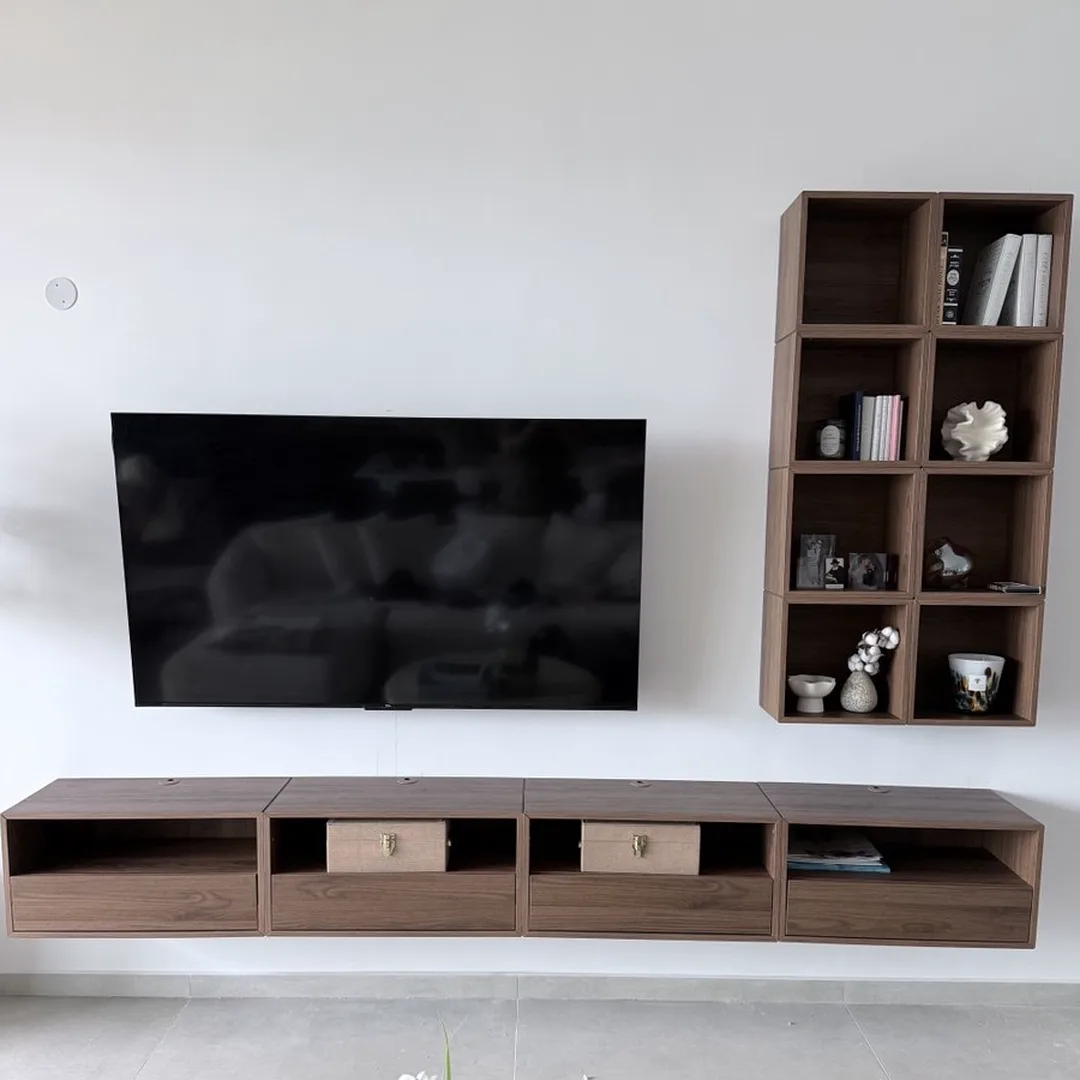
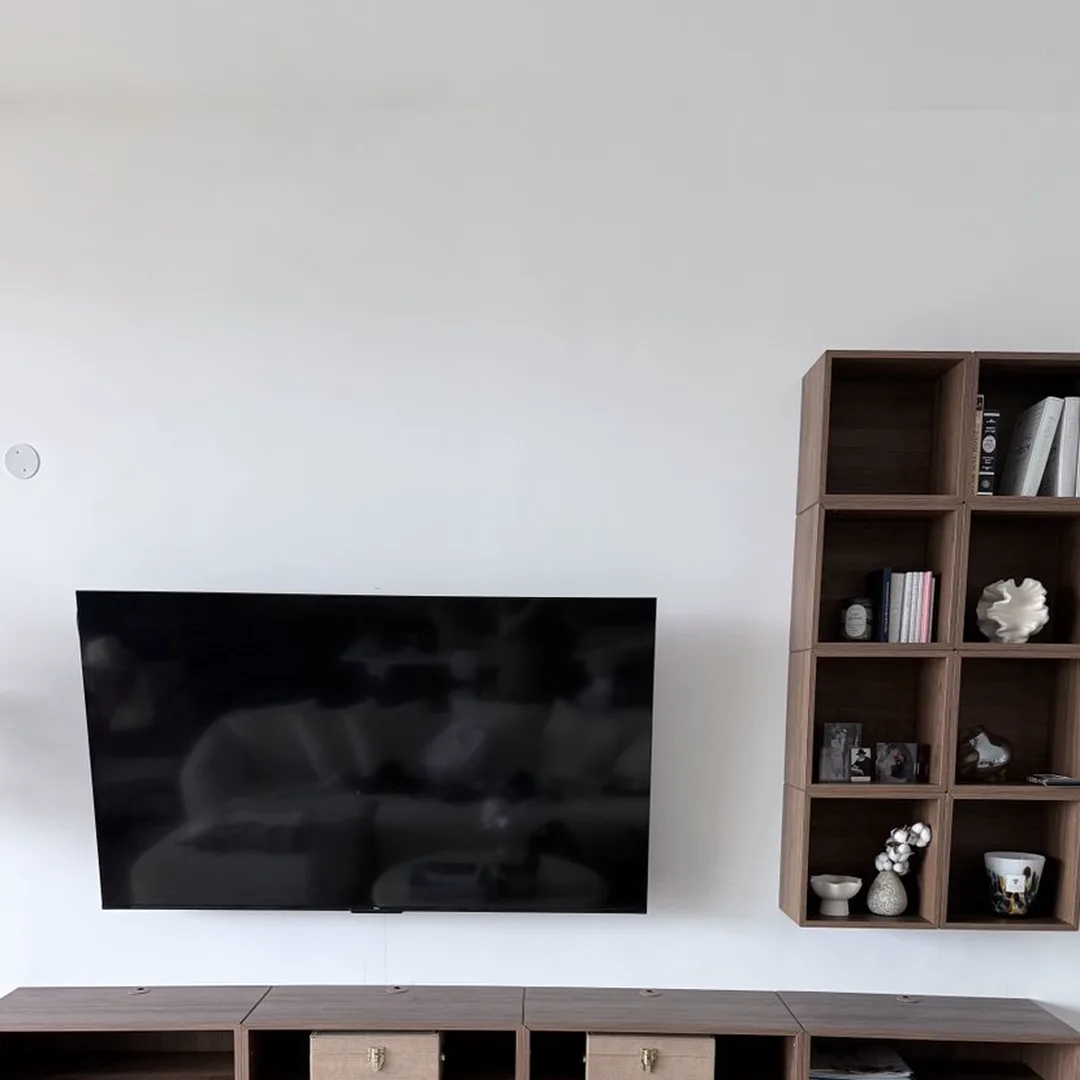
Брендбук: креатив с телевизором пересобран — плита над телевизором

diff --git a/brand/kit/ads/креативы.css b/brand/kit/ads/креативы.css
@@ -642,10 +642,29 @@ body[data-режим='экспорт'] .кр {
  * линиям»). Нашли глаза на PNG, ни одно из тринадцати правил не сработало:
  * они стерегут текст, а не то, что текст собой заслонил.
  */
+/* Поле плиты в квадрате — `space-5`, а не `space-4`, и это не вкус: знак стоит
+   в плите, и охранное поле (0,21 его высоты = 22,9 px) отмеряется от её края.
+   При 16 px знак нарушал раздел 01 брендбука, а правило 7 сборки этого не
+   видело — оно мерило расстояние до кромки холста, где запас огромный. */
 .кр--1x1.кр--снимок .кр-плита {
-  gap: var(--fx-space-3);
+  gap: var(--fx-space-2);
   padding: var(--fx-space-5);
 }
+
+/* Уплотнение плиты подвинуло знак к строке цены над ним: правило 7 поймало
+   21,5 px при норме 22,9 — одна голова буквы `i`. Зазор оказался вертикальным,
+   а не горизонтальным: первая догадка была про промежуток в футере, и после неё
+   упали обе локали вместо одной ивритской — то есть догадка была неверной, а
+   сторож точнее. Охранное поле возвращается отступом над футером. */
+.кр--1x1.кр--снимок .кр-плита .кр-низ {
+  margin-block-start: var(--fx-space-5);
+}
+
+/* Уменьшать знак ради тех же тридцати пикселей пробовали — откачено: он
+   утонул рядом с контактной строкой, и футер разбалансировался. Верхняя
+   ячейка полок остаётся частично за плитой; это цена того, что плита стоит
+   сверху, и она принята — телевизор на стене виден целиком, а он и есть
+   предмет обещания. */
 
 /*
  * В сторис заголовок набирается кеглем ленты, а не сторисным. Причина
@@ -655,4 +674,24 @@ body[data-режим='экспорт'] .кр {
  */
 .кр--9x16.кр--снимок .кр-заголовок {
   font-size: var(--fx-ad-h1);
+}
+
+/*
+ * Плита сверху, а не снизу. Замечание Дмитрия на живом креативе: «плашку лучше
+ * разместить сверху над телевизором — если телевизор висит на стене; если
+ * стоит, смысл этого креатива теряется».
+ *
+ * Первое проверено фактом, а не взглядом: между нижней кромкой телевизора и
+ * подвесным комодом ~20 см чистой стены, ножек нет, кабель уходит вниз в
+ * отверстие комода. Телевизор висит — кадр доказывает ровно то, что обещает
+ * заголовок «со стены старой квартиры — на стену новой».
+ *
+ * Второе решает замер, а не вкус: на исходнике объекты начинаются с 270-й
+ * строки из 1280, то есть сверху 21 % чистой стены. Под плиту в 34 % этого
+ * мало, поэтому вместе с переносом сменилось окно кропа — 830 px от самого
+ * верха дают 32,5 %. Ставить плиту сверху при прежнем окне значило бы срезать
+ * верх полок: тот же класс дефекта, ради которого её и переносим.
+ */
+.кр--снимок-сверху {
+  justify-content: flex-start;
 }

diff --git a/brand/kit/ads/креативы.html b/brand/kit/ads/креативы.html
@@ -582,7 +582,7 @@
         <!-- ═══ 16. Телевизор: снимок результата ═══════════════════ -->
 
         <article
-          class="кр кр--1x1 кр--тёмный кр--снимок"
+          class="кр кр--1x1 кр--тёмный кр--снимок кр--снимок-сверху"
           id="16-телевизор-фото-ru"
           lang="ru"
           dir="ltr"
@@ -616,7 +616,7 @@
         </article>
 
         <article
-          class="кр кр--1x1 кр--тёмный кр--снимок"
+          class="кр кр--1x1 кр--тёмный кр--снимок кр--снимок-сверху"
           id="16-телевизор-фото-he"
           lang="he"
           dir="rtl"

diff --git a/brand/kit/ads/фото/опись.md b/brand/kit/ads/фото/опись.md
@@ -7,7 +7,7 @@
 |---|---|---|---|---|
 | `упаковка-4x5.webp` | `192.jpg` (720x1280) | 720 · 900 · 0 · 190 | ×1.50 | четыре предмета в одеялах, стрейч поверх, пол под ними; срезан верх дальнего столба и тёмная витрина над ним |
 | `упаковка-9x16.webp` | `192.jpg` (720x1280) | без кропа | ×1.50 | тот же кадр целиком — он нативно 9:16 (720 × 1280), сторис не кропается вовсе |
-| `телевизор-1x1.webp` | `175.jpg` (960x1280) | 900 · 900 · 30 · 110 | ×1.20 | телевизор и полки-соты целиком, комод по той же линии; книги на журнальном столике срезаны намеренно — чужой бренд крупными буквами в нижней полосе креатива читается как случайность. Комод уходит под плиту с текстом, и это принято: кампания про телевизор, а «по линиям» держат ТВ и полки |
+| `телевизор-1x1.webp` | `175.jpg` (960x1280) | 830 · 830 · 65 · 0 | ×1.30 | телевизор на стене, полки-соты и верх подвесного комода; сверху 270 px чистой стены из исходника — это 32,5 % кадра, ровно под плиту с текстом (замер строк: объекты начинаются с 270-й). Книги на журнальном столике срезаны намеренно — чужой бренд крупными буквами на креативе читается как случайность |
 
 **Ни на одном кадре нет людей, документов, номеров квартир и чужих логотипов** —
 это условие публикации, а не совпадение. Кадры, где видно лицо работника
